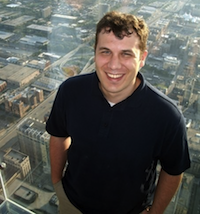
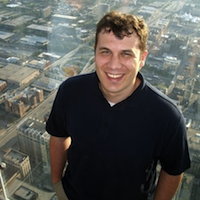
Adjust org committee portraits to align better

diff --git a/organizing_committee.html b/organizing_committee.html
@@ -27,14 +27,14 @@
         <div class="row justify-content-center">
             <div class="col text-center">
                 <a href="http://www.cs.kent.edu/~jmaletic/" target="_BLANK">
-                    <img class="mb-3 rounded-circle" style="max-width: 200px; height=auto" src="assets/org_committee/jonathan_maletic.jpg" alt="Jonathan Maletic">
+                    <img class="mb-3 rounded-circle" style="max-width: 200px; height:200px;" src="assets/org_committee/jonathan_maletic.jpg" alt="Jonathan Maletic">
                     <h5>Jonathan Maletic</h5>
                 </a>
                 <p>Kent State University</p>
             </div>
             <div class="col text-center">
                 <a href="https://www.linkedin.com/in/brian-robinson-ph-d-4172832" target="_BLANK">
-                    <img class="mb-3 rounded-circle" style="max-width: 200px; height=auto" src="assets/org_committee/brian_robinson.jpg" alt="Brian Robinson">
+                    <img class="mb-3 rounded-circle" style="max-width: 200px; height:200px" src="assets/org_committee/brian_robinson.jpg" alt="Brian Robinson">
                     <h5>Brian Robinson</h5>
                 </a>
                 <p>ABB Corporate Research</p>
@@ -47,14 +47,14 @@
         <div class="row justify-content-center">
             <div class="col text-center">
                 <a href="https://web.cs.ucla.edu/~miryung/" target="_BLANK">
-                    <img class="mb-3 rounded-circle" style="max-width: 200px; height=auto" src="assets/org_committee/miryung_kim.jpg" alt="Miryung Kim">
+                    <img class="mb-3 rounded-circle" style="max-width: 200px; height:200px" src="assets/org_committee/miryung_kim.jpg" alt="Miryung Kim">
                     <h5>Miryung Kim</h5>
                 </a>
                 <p>University of California, Los Angeles</p>
             </div>
             <div class="col text-center">
                 <a href="http://www.inf.u-szeged.hu/~beszedes/eng/index.html" target="_BLANK">
-                    <img class="mb-3 rounded-circle" style="max-width: 200px; height=auto" src="assets/org_committee/arpad_beszedes.png" alt="&Aacute;rp&aacute;d Besz&eacute;des">
+                    <img class="mb-3 rounded-circle" style="max-width: 200px; height:200px" src="assets/org_committee/arpad_beszedes.png" alt="&Aacute;rp&aacute;d Besz&eacute;des">
                     <h5>&Aacute;rp&aacute;d Besz&eacute;des</h5>
                 </a>
                 <p>University of Szeged</p>
@@ -67,14 +67,14 @@
         <div class="row justify-content-center">
             <div class="col text-center">
                 <a href="https://www.cs.fsu.edu/~shaiduc/" target="_BLANK">
-                    <img class="mb-3 rounded-circle" style="max-width: 200px; height=auto" src="assets/org_committee/sonia_haiduc.jpg" alt="Sonia Haiduc">
+                    <img class="mb-3 rounded-circle" style="max-width: 200px; height:200px" src="assets/org_committee/sonia_haiduc.jpg" alt="Sonia Haiduc">
                     <h5>Sonia Haiduc</h5>
                 </a>
                 <p>Florida State University</p>
             </div>
             <div class="col text-center">
                 <a href="http://www0.cs.ucl.ac.uk/staff/F.Sarro/" target="_BLANK">
-                    <img class="mb-3 rounded-circle" style="max-width: 200px; height=auto" src="assets/org_committee/federica_sarro.jpg" alt="Federica Sarro">
+                    <img class="mb-3 rounded-circle" style="max-width: 200px; height:200px" src="assets/org_committee/federica_sarro.jpg" alt="Federica Sarro">
                     <h5>Federica Sarro</h5>
                 </a>
                 <p>University College London</p>
@@ -87,14 +87,14 @@
         <div class="row justify-content-center">
             <div class="col text-center">
                 <a href="https://scholar.google.com/citations?user=2WeXBokAAAAJ&hl=en" target="_BLANK">
-                    <img class="mb-3 rounded-circle" style="max-width: 200px; height=auto" src="assets/org_committee/bonita_sharif.png" alt="Bontia Sharif">
+                    <img class="mb-3 rounded-circle" style="max-width: 200px; height:200px" src="assets/org_committee/bonita_sharif.png" alt="Bontia Sharif">
                     <h5>Bontia Sharif</h5>
                 </a>
                 <p>University of Nebraska - Lincoln</p>
             </div>
             <div class="col text-center">
                 <a href="https://www.kpmoran.com/" target="_BLANK">
-                    <img class="mb-3 rounded-circle" style="max-width: 200px; height=auto" src="assets/org_committee/kevin_moran.jpg" alt="Kevin Moran">
+                    <img class="mb-3 rounded-circle" style="max-width: 200px; height:200px" src="assets/org_committee/kevin_moran.jpg" alt="Kevin Moran">
                     <h5>Kevin Moran</h5>
                 </a>
                 <p>College of William & Mary</p>
@@ -107,14 +107,14 @@
         <div class="row justify-content-center">
             <div class="col text-center">
                 <a href="http://mlcollard.net/" target="_BLANK">
-                    <img class="mb-3 rounded-circle" style="max-width: 200px; height=auto" src="assets/org_committee/michael_collard.jpg" alt="Michael Collard">
+                    <img class="mb-3 rounded-circle" style="max-width: 200px; height:200px" src="assets/org_committee/michael_collard.jpg" alt="Michael Collard">
                     <h5>Michael Collard</h5>
                 </a>
                 <p>The University of Akron</p>
             </div>
             <div class="col text-center">
                 <a href="http://www.se.cs.titech.ac.jp/~hayashi/" target="_BLANK">
-                    <img class="mb-3 rounded-circle" style="max-width: 200px; height=auto" src="assets/org_committee/shinpei_hayashi.png" alt="Shinpei Hayashi">
+                    <img class="mb-3 rounded-circle" style="max-width: 200px; height:200px" src="assets/org_committee/shinpei_hayashi.png" alt="Shinpei Hayashi">
                     <h5>Shinpei Hayashi</h5>
                 </a>
                 <p>Tokyo Institute of Technology</p>
@@ -127,14 +127,14 @@
         <div class="row justify-content-center">
             <div class="col text-center">
                 <a href="https://nicholasakraft.com/" target="_BLANK">
-                    <img class="mb-3 rounded-circle" style="max-width: 200px; height=auto" src="assets/org_committee/nicholas_kraft.jpg" alt="Nicholas Kraft">
+                    <img class="mb-3 rounded-circle" style="max-width: 200px; height:200px" src="assets/org_committee/nicholas_kraft.jpg" alt="Nicholas Kraft">
                     <h5>Nicholas Kraft</h5>
                 </a>
                 <p>ABB Corporate Research</p>
             </div>
             <div class="col text-center">
                 <a href="https://www.linkedin.com/in/katja-kevic-436b52a0" target="_BLANK">
-                    <img class="mb-3 rounded-circle" style="max-width: 200px; height=auto" src="assets/org_committee/katja_kevic.jpg" alt="Katja Kevic">
+                    <img class="mb-3 rounded-circle" style="max-width: 200px; height:200px" src="assets/org_committee/katja_kevic.jpg" alt="Katja Kevic">
                     <h5>Katja Kevic</h5>
                 </a>
                 <p>Microsoft</p>
@@ -147,14 +147,14 @@
         <div class="row justify-content-center">
             <div class="col text-center">
                 <a href="https://www.eecis.udel.edu/~clause/" target="_BLANK">
-                    <img class="mb-3 rounded-circle" style="max-width: 200px; height=auto" src="assets/org_committee/james_clause.png" alt="James Clause">
+                    <img class="mb-3 rounded-circle" style="max-width: 200px; height:200px" src="assets/org_committee/james_clause.png" alt="James Clause">
                     <h5>James Clause</h5>
                 </a>
                 <p>University of Delaware</p>
             </div>
             <div class="col text-center">
                 <a href="http://www.win.tue.nl/~aserebre/" target="_BLANK">
-                    <img class="mb-3 rounded-circle" style="max-width: 200px; height=auto" src="assets/org_committee/alexander_serebrenik.jpg" alt="Alexander Serebrenik">
+                    <img class="mb-3 rounded-circle" style="max-width: 200px; height:200px" src="assets/org_committee/alexander_serebrenik.jpg" alt="Alexander Serebrenik">
                     <h5>Alexander Serebrenik</h5>
                 </a>
                 <p>Eindhoven University of Technology</p>
@@ -166,14 +166,14 @@
         <div class="row justify-content-center">
             <div class="col text-center">
                 <a href="http://www.robertominelli.com/index.html" target="_BLANK">
-                    <img class="mb-3 rounded-circle" style="max-width: 200px; height=auto" src="assets/org_committee/roberto_minelli.jpg" alt="Roberto Minelli">
+                    <img class="mb-3 rounded-circle" style="max-width: 200px; height:200px" src="assets/org_committee/roberto_minelli.jpg" alt="Roberto Minelli">
                     <h5>Roberto Minelli</h5>
                 </a>
                 <p>Software Institute @ Università della Svizzera italiana (USI)</p>
             </div>
             <div class="col text-center">
                 <a href="http://paigerodeghero.com/" target="_BLANK">
-                    <img class="mb-3 rounded-circle" style="max-width: 200px; height=auto" src="assets/org_committee/paige_rodeghero.png" alt="Paige Rodeghero">
+                    <img class="mb-3 rounded-circle" style="max-width: 200px; height:200px" src="assets/org_committee/paige_rodeghero.png" alt="Paige Rodeghero">
                     <h5>Paige Rodeghero</h5>
                 </a>
                 <p>Clemson University</p>
@@ -185,14 +185,14 @@
         <div class="row justify-content-center">
             <div class="col text-center">
                 <a href="http://www.csd.uwo.ca/faculty/kostas/" target="_BLANK">
-                    <img class="mb-3 rounded-circle" style="max-width: 200px; height=auto" src="assets/org_committee/kostas_kontogiannis.jpeg" alt="Kostas Kontogiannis">
+                    <img class="mb-3 rounded-circle" style="max-width: 200px; height:200px" src="assets/org_committee/kostas_kontogiannis.jpeg" alt="Kostas Kontogiannis">
                     <h5>Kostas Kontogiannis</h5>
                 </a>
                 <p>Western University</p>
             </div>
             <div class="col text-center">
                 <a href="http://taoxie.cs.illinois.edu/" target="_BLANK">
-                    <img class="mb-3 rounded-circle" style="max-width: 200px; height=auto" src="assets/org_committee/tao_xie.jpg" alt="Tao Xie">
+                    <img class="mb-3 rounded-circle" style="max-width: 200px; height:200px" src="assets/org_committee/tao_xie.jpg" alt="Tao Xie">
                     <h5>Tao Xie</h5>
                 </a>
                 <p>University of Illinois at Urbana-Champaign</p>
@@ -205,7 +205,7 @@
         <div class="row justify-content-center">
             <div class="col text-center">
                 <a href="https://www.linkedin.com/in/willsnipes" target="_BLANK">
-                    <img class="mb-3 rounded-circle" style="max-width: 200px; height=auto" src="assets/org_committee/will_snipes.jpg" alt="Will Snipes">
+                    <img class="mb-3 rounded-circle" style="max-width: 200px; height:200px" src="assets/org_committee/will_snipes.jpg" alt="Will Snipes">
                     <h5>Will Snipes</h5>
                 </a>
                 <p>ABB Corporate Research</p>
@@ -218,7 +218,7 @@
         <div class="row justify-content-center">
             <div class="col text-center">
                 <!--<a href="" target="_BLANK">-->
-                    <img class="mb-3 rounded-circle" style="max-width: 200px; height=auto" src="assets/org_committee/drew_guarnera.jpg" alt="Drew Guarnera">
+                    <img class="mb-3 rounded-circle" style="max-width: 200px; height:200px" src="assets/org_committee/drew_guarnera.jpg" alt="Drew Guarnera">
                     <h5>Drew Guarnera</h5>
                 <!--</a>-->
                 <p>Kent State University</p>
@@ -231,7 +231,7 @@
         <div class="row justify-content-center">
             <div class="col text-center">
                 <!--<a href="" target="_BLANK">-->
-                    <img class="mb-3 rounded-circle" style="max-width: 200px; height=auto" src="assets/org_committee/christian_newman.jpg" alt="Christian Newman">
+                    <img class="mb-3 rounded-circle" style="max-width: 200px; height:200px" src="assets/org_committee/christian_newman.jpg" alt="Christian Newman">
                     <h5>Christian Newman</h5>
                 <!--</a>-->
                 <p>Rochester Institute of Technology</p>
@@ -244,7 +244,7 @@
         <div class="row justify-content-center">
             <div class="col text-center">
                 <a href="http://www.cs.bgsu.edu/mdecke/" target="_BLANK">
-                    <img class="mb-3 rounded-circle" style="max-width: 200px; height=auto" src="assets/org_committee/micheal_decker.png" alt="Michael Decker">
+                    <img class="mb-3 rounded-circle" style="max-width: 200px; height:200px" src="assets/org_committee/micheal_decker.png" alt="Michael Decker">
                     <h5>Michael Decker</h5>
                 </a>
                 <p>Bowling Green State University</p>
@@ -257,7 +257,7 @@
         <div class="row justify-content-center">
             <div class="col text-center">
                 <!--<a href="" target="_BLANK">
-                    <img class="mb-3 rounded-circle" style="max-width: 200px; height=auto" src="assets/org_committee/" alt="">
+                    <img class="mb-3 rounded-circle" style="max-width: 200px; height:200px" src="assets/org_committee/" alt="">
                 --><h5>Coming Soon!</h5>
                 <!--</a>
                 <p></p>-->
@@ -270,7 +270,7 @@
         <div class="row justify-content-center">
             <div class="col text-center">
                 <!--<a href="" target="_BLANK">
-                    <img class="mb-3 rounded-circle" style="max-width: 200px; height=auto" src="assets/org_committee/" alt="">
+                    <img class="mb-3 rounded-circle" style="max-width: 200px; height:200px" src="assets/org_committee/" alt="">
                 --><h5>Coming Soon!</h5>
                 <!--</a>
                 <p></p>-->
